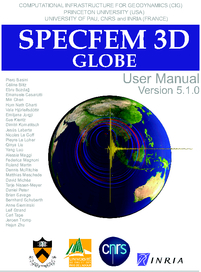
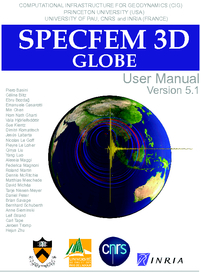
generated new small versions of the covers for the Web site, and removed old comments from the list of authors.

diff --git a/doc/USER_MANUAL/manual_SPECFEM3D_GLOBE.tex b/doc/USER_MANUAL/manual_SPECFEM3D_GLOBE.tex
@@ -101,7 +101,7 @@ Version 5.1}
 \maketitle
 
 \section*{Authors}
-The SPECFEM3D\_GLOBE package was first developed by Dimitri Komatitsch and Jeroen Tromp at Harvard University and Caltech, USA, starting in 1998, based in part on earlier work by Dimitri Komatitsch and Jean-Pierre Vilotte at Institut de Physique du Globe (IPGP) in Paris, France from 1994 to 1997.\\
+The SPECFEM3D\_GLOBE package was first developed by Dimitri Komatitsch and Jeroen Tromp at Harvard University and Caltech, USA, starting in 1998, based in part on earlier work by Dimitri Komatitsch and Jean-Pierre Vilotte at Institut de Physique du Globe (IPGP) in Paris, France from 1995 to 1997.\\
 
 Since then it has been developed and maintained by a development team: in alphabetical order,
 Piero Basini,
